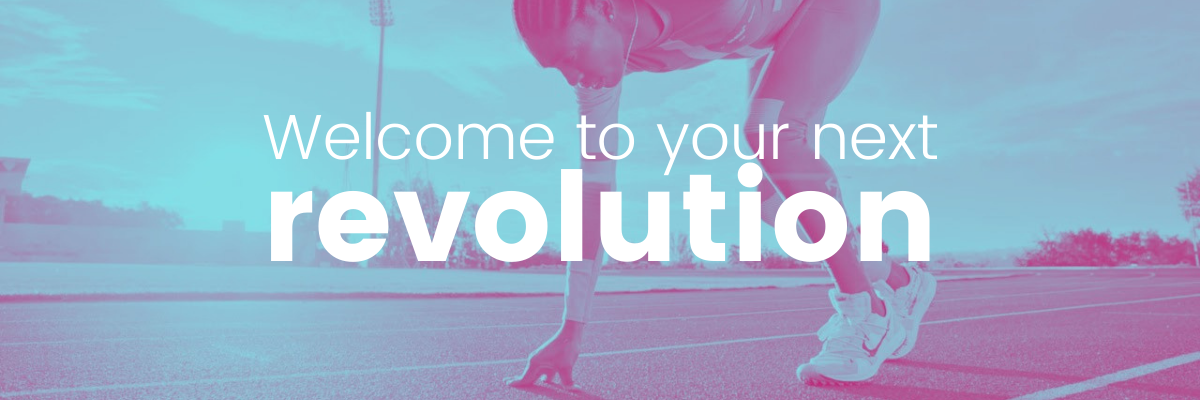
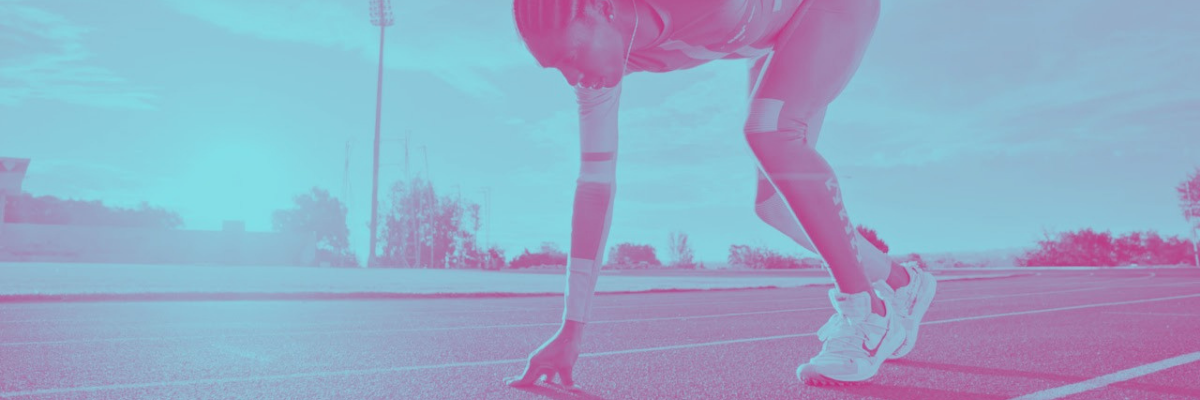
removed image text and added it statically with styling

Changed region(s): [[0.2158, 0.27, 0.8017, 0.66]]

diff --git a/src/styles/components/_TopBanner.scss b/src/styles/components/_TopBanner.scss
@@ -3,8 +3,32 @@
   justify-content: center;
   align-items: center;
   margin-bottom: 5vh;
+  position: relative;
 
   img {
-    width: 100vw;
+    width: 110vw;
+    height: auto;
   }
+}
+
+.big-ban-text {
+  font-family: "Poppins";
+  font-weight: 800;
+  font-size: 8vw;
+  position: absolute;
+  color: white;
+  margin-top: 2em;
+}
+
+.small-ban-text {
+  color: white;
+  position: absolute;
+  font-size: 4.5vw;
+  left: 50;
+  margin-bottom: 1.8em;
+  font-family: "Roboto";
+  font-weight: 300;
+  display: flex;
+  flex-direction: column;
+  align-items: center;
 }

diff --git a/src/styles/Main.scss b/src/styles/Main.scss
@@ -1,4 +1,5 @@
-@import url('https://fonts.googleapis.com/css2?family=Poppins:ital,wght@0,700;0,800;0,900;1,700&family=Roboto:wght@100;300&display=swap');
+@import url('https://fonts.googleapis.com/css2?family=Poppins:wght@400;500;700;800;900&display=swap');
+@import url('https://fonts.googleapis.com/css2?family=Roboto:wght@100;300;400&display=swapht@100;200;300&display=swap');
 
 @import './components/Directory.scss';
 @import './components/MenuItem.scss';

diff --git a/src/components/TopBanner/TopBanner.tsx b/src/components/TopBanner/TopBanner.tsx
@@ -5,6 +5,8 @@ export const TopBanner = () => {
   return (
     <div className="topbanner" >
       <img alt="site banner" src={banner} />
+      <p className="small-ban-text">welcome to your next</p>
+      <p className="big-ban-text" >revolution</p>
     </div>
   )
 }
